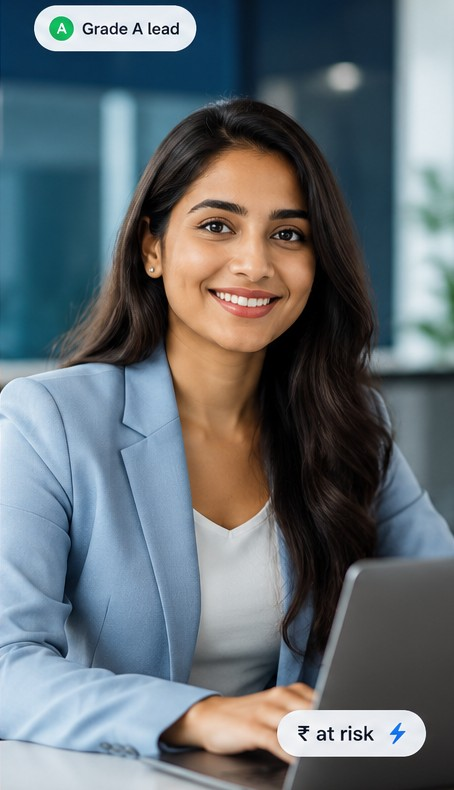
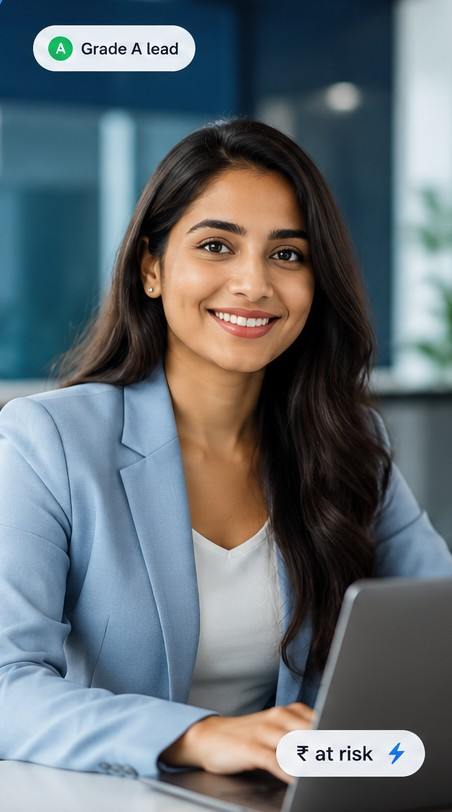
polish: popup fixes — "Start free" CTA, centered trust, ₹ spacing, pill headroom
- CTA text shortened to "Start free"
- "Free tier · No credit card · Cancel anytime" centered
- explicit spacing around the ₹/A–F highlights (no more "₹you")
- desktop photo shows at natural aspect (sm:h-auto, no object-cover crop) and
  re-cropped with headroom so the "Grade A lead" chip is not flush to the top

diff --git a/app/components/conversion-popup.tsx b/app/components/conversion-popup.tsx
@@ -186,13 +186,13 @@ export function ConversionPopup() {
       >
         <div className="flex flex-col sm:flex-row">
           {/* ── Left: model photo (Grade-A / ₹-at-risk chips baked in) ──────── */}
-          <div className="relative h-[210px] w-full shrink-0 overflow-hidden bg-slate-100 sm:h-auto sm:w-[41%]">
+          <div className="relative w-full shrink-0 overflow-hidden bg-slate-100 sm:w-[41%]">
             {/* eslint-disable-next-line @next/next/no-img-element */}
             <img
               src="/brand/popup-hero.jpg"
               alt="A Leadkaun sales rep at her desk"
               draggable={false}
-              className="absolute inset-0 h-full w-full select-none object-cover object-[center_22%] sm:object-center"
+              className="block h-[210px] w-full select-none object-cover object-[center_22%] sm:h-auto sm:object-cover"
             />
           </div>
 
@@ -217,9 +217,11 @@ export function ConversionPopup() {
             </h2>
 
             <p className="mt-3.5 text-[14px] leading-[1.55] text-ink-soft">
-              Leadkaun grades every lead <span className="font-medium text-sky-600">A–F</span>, builds each
-              rep&apos;s Priority Queue, and flags the <span className="font-medium text-sky-600">₹</span> you&apos;re
-              about to lose — live in about 60 minutes.
+              Leadkaun grades every lead{" "}
+              <span className="font-medium text-sky-600">A–F</span>, builds each rep&apos;s Priority
+              Queue, and flags the{" "}
+              <span className="font-medium text-sky-600">₹</span> you&apos;re about to lose — live in
+              about 60 minutes.
             </p>
 
             <ul className="mt-5 flex flex-col gap-2.5">
@@ -239,7 +241,7 @@ export function ConversionPopup() {
                 onClick={() => onCta("register")}
                 className="w-full justify-center"
               >
-                Start free — no card <ArrowRight className="h-4 w-4" />
+                Start free <ArrowRight className="h-4 w-4" />
               </GlossLink>
               <a
                 href="/pricing"
@@ -250,7 +252,7 @@ export function ConversionPopup() {
               </a>
             </div>
 
-            <p className="mt-5 text-[12px] text-ink-muted">
+            <p className="mt-5 text-center text-[12px] text-ink-muted">
               Free tier · No credit card · Cancel anytime
             </p>
           </div>
